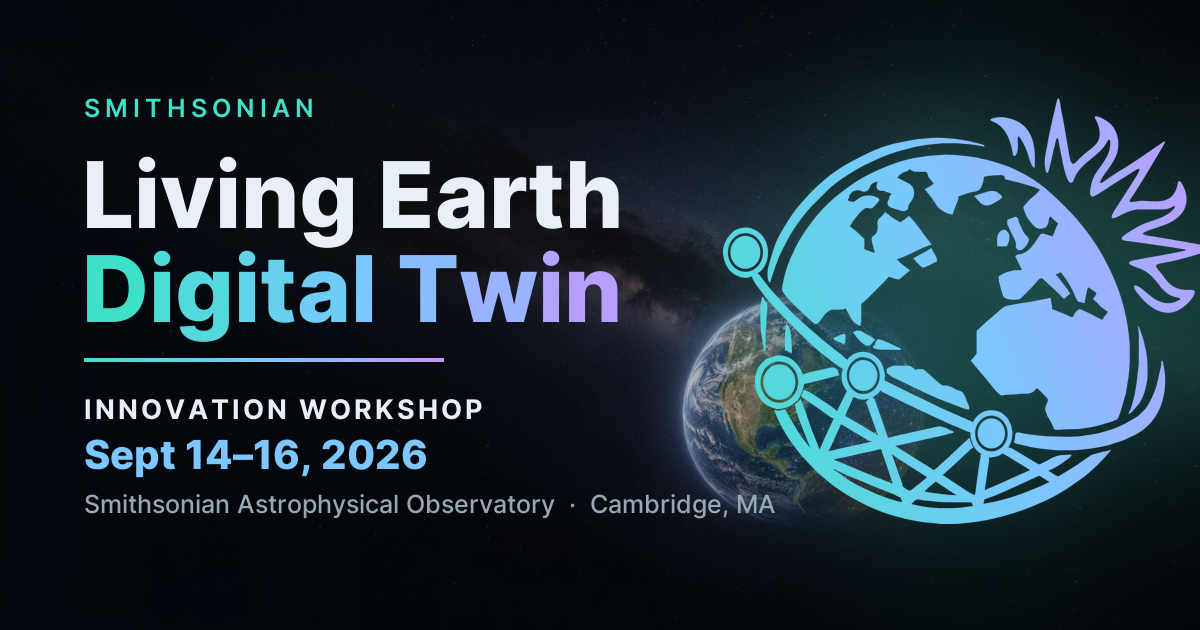
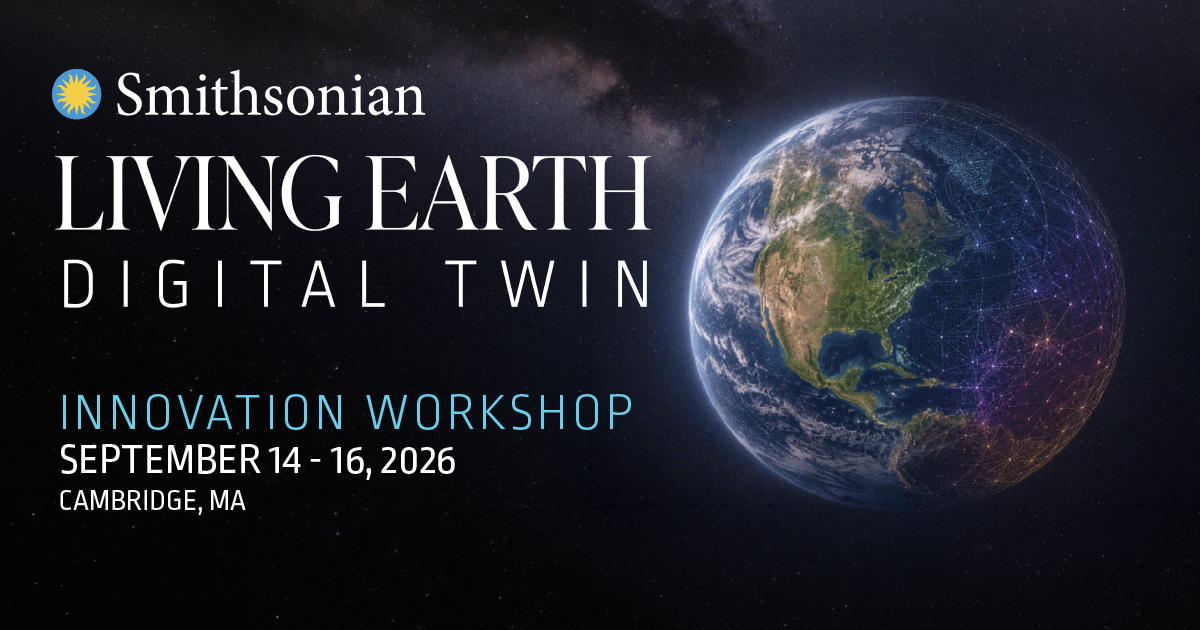
big update

diff --git a/CLAUDE.md b/CLAUDE.md
@@ -82,12 +82,15 @@ cd website && python -m http.server 8000
   (`https://granttremblay.github.io/earth_digital_twin/assets/og-card.png`) —
   social crawlers won't follow relative paths. If the Pages URL ever changes,
   update those two absolute URLs.
-- The card (1200×630) is **generated**, not hand-drawn:
-  `python3 scripts/make_og_card.py` bakes it from `earth_backdrop.png` (cover-fit,
+- **The live `og-card.png` is hand-authored by Grant** (he replaced the
+  generated one on 2026-06-24). It is 1200×630 — keep that size so the
+  `og:image:width`/`height` tags stay accurate. **Do NOT re-run
+  `scripts/make_og_card.py` against the default output path — it would overwrite
+  Grant's card.** Treat the script as an archival/fallback generator only; if you
+  ever need it, point it at a different filename and ask before replacing the
+  live card. The script bakes a card from `earth_backdrop.png` (cover-fit,
   darkened) + `digital_earth_logo_white-01.png` (tinted with the teal→blue→violet
-  brand gradient) + the local **Inter** variable font. It's currently
-  *event-focused* (title + "Innovation Workshop · Sept 14–16, 2026 · SAO
-  Cambridge MA"). Re-run the script after editing it and commit the new PNG.
+  brand gradient) + the local **Inter** variable font.
 - This is a **build-time asset script**, not a website or notebook dependency.
   It runs on the system `python3` that has Pillow (not the uv env) — do **not**
   `uv add pillow`; the lockfile stays clean. No build step is introduced for the

diff --git a/README.md b/README.md
@@ -38,7 +38,7 @@ A project emblem — the LEDT globe mark — sits above the title in the hero. I
 
 ### Social sharing card
 
-Posting a link to Twitter/Facebook/Slack shows a 1200×630 preview card ([`website/assets/og-card.png`](website/assets/og-card.png)), wired up via Open Graph / Twitter `<meta>` tags. The card is generated — not hand-drawn — by [`scripts/make_og_card.py`](scripts/make_og_card.py) from the Earth backdrop, the gradient-tinted logo, and the Inter font. Regenerate it with `python3 scripts/make_og_card.py` (uses the system Python's Pillow; it's a build-time asset, not a project dependency) and commit the updated PNG.
+Posting a link to Twitter/Facebook/Slack shows a 1200×630 preview card ([`website/assets/og-card.png`](website/assets/og-card.png)), wired up via Open Graph / Twitter `<meta>` tags. The live card is hand-authored; if you swap it, keep it **1200×630** so the `og:image:width`/`height` tags stay correct. A fallback generator, [`scripts/make_og_card.py`](scripts/make_og_card.py), can bake a card from the Earth backdrop + gradient-tinted logo + Inter font — but note it writes to that same path, so it will overwrite the current card unless you point it elsewhere.
 
 ### Public deploy (GitHub Pages)
 